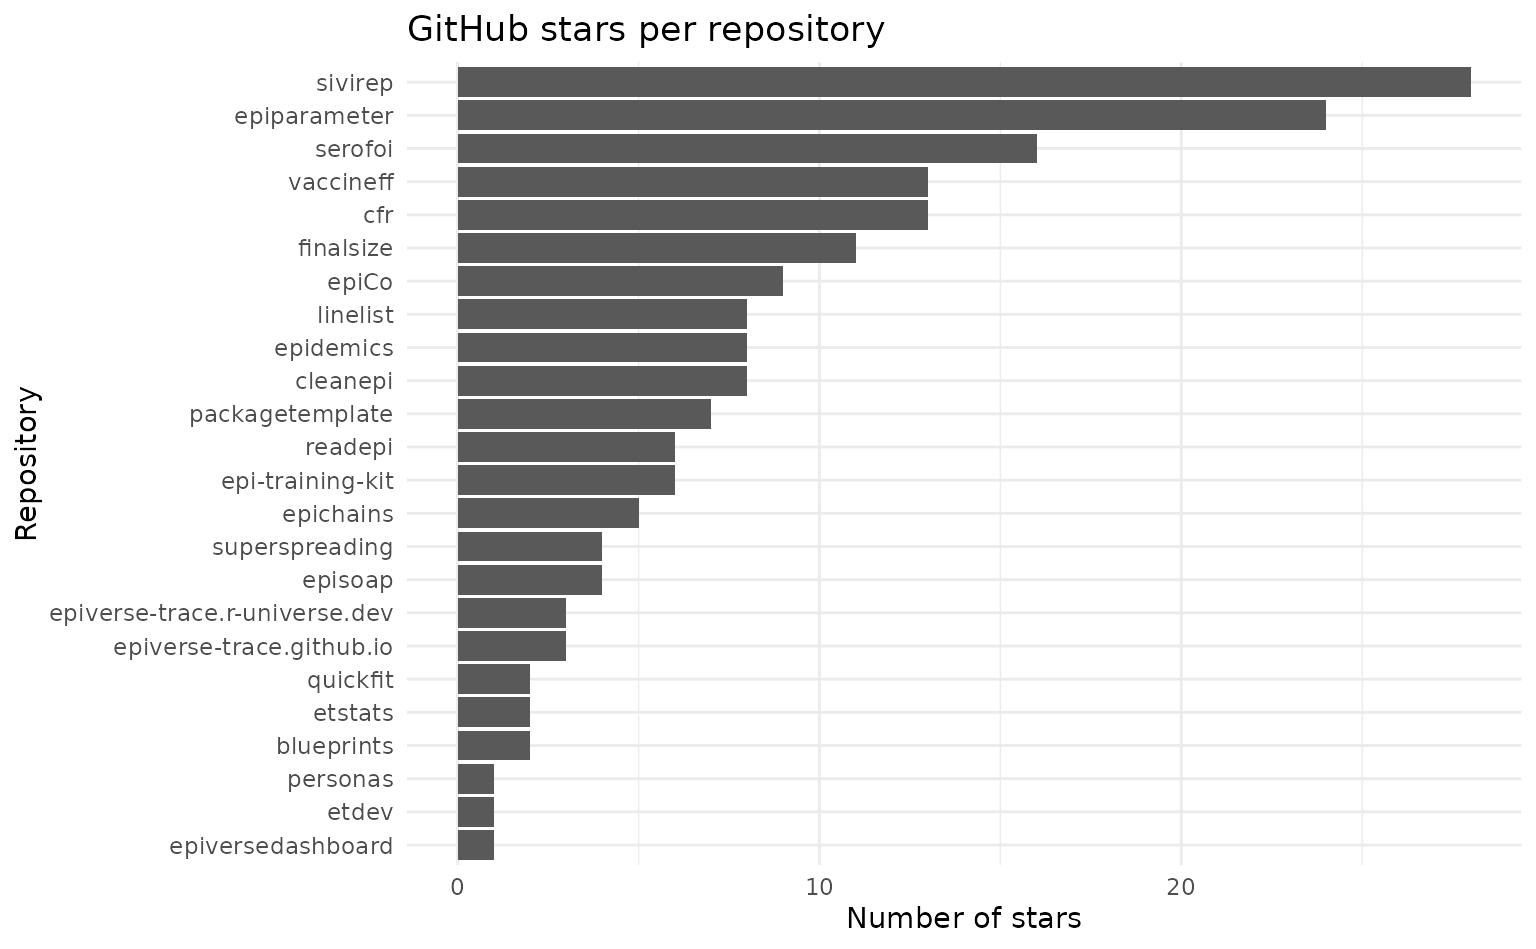
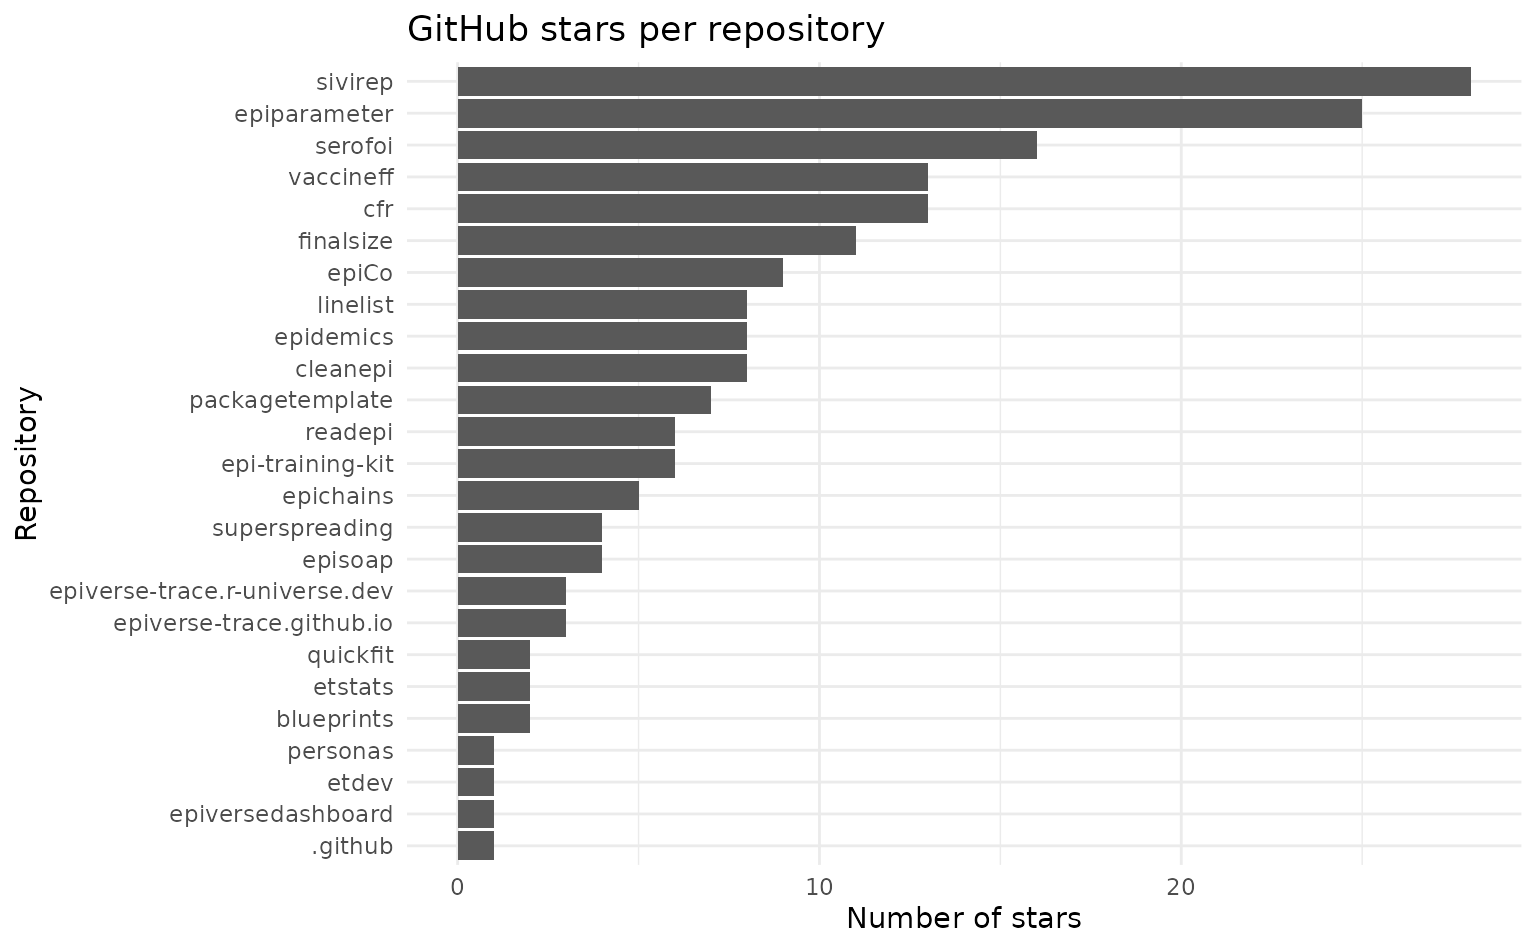
Deploying to gh-pages from @ epiverse-trace/etstats@e0566d97d611b13581c5b74011196a3933141a18 🚀

Changed region(s): [[0.2812, 0.1222, 0.6875, 0.8251], [0.0312, 0.0917, 0.25, 0.9168], [0.8438, 0.0917, 0.9062, 0.1528]]

diff --git a/articles/github-statistics.html b/articles/github-statistics.html
@@ -78,7 +78,7 @@
   <main id="main" class="col-md-9"><div class="page-header">
       <img src="" class="logo" alt=""><h1>GitHub statistics</h1>
             
-            <h4 data-toc-skip class="date">2024-06-24</h4>
+            <h4 data-toc-skip class="date">2024-07-01</h4>
       
       <small class="dont-index">Source: <a href="https://github.com/epiverse-trace/etstats/blob/HEAD/vignettes/github-statistics.Rmd" class="external-link"><code>vignettes/github-statistics.Rmd</code></a></small>
       <div class="d-none name"><code>github-statistics.Rmd</code></div>
@@ -89,7 +89,7 @@
 <div class="section level2">
 <h2 id="github-followers">GitHub followers<a class="anchor" aria-label="anchor" href="#github-followers"></a>
 </h2>
-<p>Our Epiverse-TRACE GitHub organization currently has 133
+<p>Our Epiverse-TRACE GitHub organization currently has 135
 followers.</p>
 </div>
 <div class="section level2">
@@ -98,8 +98,8 @@ followers.</p>
 <div class="section level3">
 <h3 id="totals">Totals<a class="anchor" aria-label="anchor" href="#totals"></a>
 </h3>
-<p>In total, we have 185 stars across all Epiverse-TRACE packages. These
-stars come from 109 unique users.</p>
+<p>In total, we have 187 stars across all Epiverse-TRACE packages. These
+stars come from 110 unique users.</p>
 <p><img src="github-statistics_files/figure-html/unnamed-chunk-5-1.png" width="768"></p>
 </div>
 <div class="section level3">
@@ -124,7 +124,7 @@ stars come from 109 unique users.</p>
 <td align="left">epiparameter</td>
 <td align="right">8</td>
 <td align="right">9</td>
-<td align="right">7</td>
+<td align="right">8</td>
 </tr>
 <tr class="odd">
 <td align="left">epiverse-trace.r-universe.dev</td>
@@ -253,16 +253,22 @@ stars come from 109 unique users.</p>
 <td align="right">8</td>
 </tr>
 <tr class="even">
+<td align="left">.github</td>
+<td align="right">0</td>
+<td align="right">0</td>
+<td align="right">1</td>
+</tr>
+<tr class="odd">
 <td align="left">blueprints</td>
 <td align="right">0</td>
 <td align="right">0</td>
 <td align="right">2</td>
 </tr>
-<tr class="odd">
+<tr class="even">
 <td align="left">Total</td>
 <td align="right">24</td>
 <td align="right">89</td>
-<td align="right">72</td>
+<td align="right">74</td>
 </tr>
 </tbody>
 </table>

diff --git a/articles/cran-statistics.html b/articles/cran-statistics.html
@@ -78,7 +78,7 @@
   <main id="main" class="col-md-9"><div class="page-header">
       <img src="" class="logo" alt=""><h1>CRAN statistics</h1>
             
-            <h4 data-toc-skip class="date">2024-06-24</h4>
+            <h4 data-toc-skip class="date">2024-07-01</h4>
       
       <small class="dont-index">Source: <a href="https://github.com/epiverse-trace/etstats/blob/HEAD/vignettes/cran-statistics.Rmd" class="external-link"><code>vignettes/cran-statistics.Rmd</code></a></small>
       <div class="d-none name"><code>cran-statistics.Rmd</code></div>
@@ -93,7 +93,7 @@
 <li><a href="https://cran.r-project.org/package=cfr" class="external-link">cfr</a></li>
 <li><a href="https://cran.r-project.org/package=finalsize" class="external-link">finalsize</a></li>
 </ul>
-<p>In total, Epiverse-TRACE packages on CRAN have been downloaded 20449
+<p>In total, Epiverse-TRACE packages on CRAN have been downloaded 20929
 times.</p>
 <p>Below is a visualization of the breakdown of this grand total by
 package over time.</p>
@@ -110,31 +110,31 @@ package over time.</p>
 <td align="left">finalsize</td>
 <td align="right">260</td>
 <td align="right">2881</td>
-<td align="right">1777</td>
+<td align="right">1835</td>
 </tr>
 <tr class="even">
 <td align="left">linelist</td>
 <td align="right">3712</td>
 <td align="right">4898</td>
-<td align="right">4653</td>
+<td align="right">4836</td>
 </tr>
 <tr class="odd">
 <td align="left">cfr</td>
 <td align="right">NA</td>
 <td align="right">364</td>
-<td align="right">1772</td>
+<td align="right">1927</td>
 </tr>
 <tr class="even">
 <td align="left">cleanepi</td>
 <td align="right">NA</td>
 <td align="right">NA</td>
-<td align="right">132</td>
+<td align="right">216</td>
 </tr>
 <tr class="odd">
 <td align="left">Total</td>
 <td align="right">3972</td>
 <td align="right">8143</td>
-<td align="right">8334</td>
+<td align="right">8814</td>
 </tr>
 </tbody>
 </table></main>
